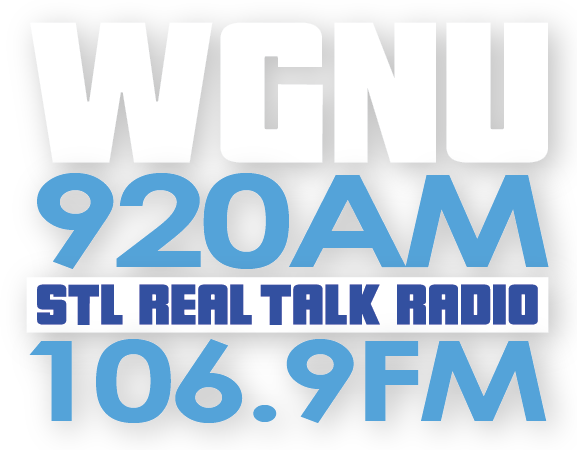
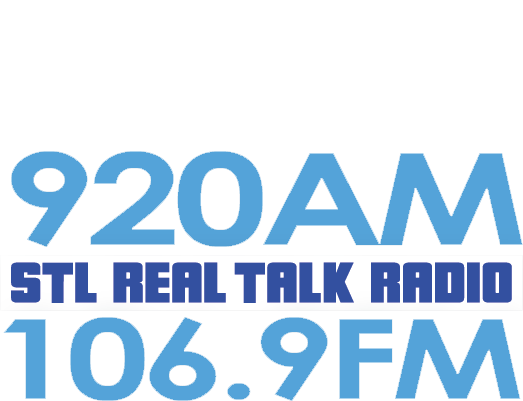
station updates

diff --git a/web/stations/stations-america.js b/web/stations/stations-america.js
@@ -3705,11 +3705,6 @@ var stations = {
             url: "https://stream.revma.ihrhls.com/zc201/hls.m3u8"
         },
         {
-            name: "Radio Disney Country 99.1",
-            logo: "stations/images-america/los_angeles/Radio Disney Country 99.1.png",
-            url: "https://atsradio.herokuapp.com/https://playerservices.streamtheworld.com/api/livestream-redirect/RDCOUNTRYAAC64_SC"
-        },
-        {
             name: "99.5 KKLA",
             logo: "stations/images-america/los_angeles/99.5 KKLA.png",
             url: "https://playerservices.streamtheworld.com/api/livestream-redirect/KKLAFMAAC_SC"
@@ -3720,8 +3715,8 @@ var stations = {
             url: "https://atsradio.herokuapp.com/https://playerservices.streamtheworld.com/api/livestream-redirect/KRTHFMAAC_SC"
         },
         {
-            name: "101.5 KQBH",
-            logo: "stations/images-america/los_angeles/101.5 KQBH.png",
+            name: "KQBH 101.5",
+            logo: "stations/images-america/los_angeles/KQBH 101.5.png",
             url: "http://ednixon.com:8170/stream"
         },
         {
@@ -3813,6 +3808,11 @@ var stations = {
             name: "KNX 1070",
             logo: "stations/images-america/los_angeles/KNX 1070.png",
             url: "https://atsradio.herokuapp.com/https://playerservices.streamtheworld.com/api/livestream-redirect/KNXAMAAC_SC"
+        },
+        {
+            name: "The Patriot 1150",
+            logo: "stations/images-america/los_angeles/The Patriot 1150.png",
+            url: "https://stream.revma.ihrhls.com/zc197/hls.m3u8"
         },
     ],
     "ltahoe": [
@@ -19103,9 +19103,14 @@ var stations_c2c = {
             url: "https://atsradio.herokuapp.com/https://playerservices.streamtheworld.com/api/livestream-redirect/KSHEFMAAC_SC"
         },
         {
-            name: "NOW 96.3",
-            logo: "stations/images-america/c2c/stlouis_mo/NOW 96.3.png",
-            url: "https://atsradio.herokuapp.com/https://playerservices.streamtheworld.com/api/livestream-redirect/KNOUFMAAC_SC"
+            name: "BOOST 95.5",
+            logo: "stations/images-america/c2c/stlouis_mo/BOOST 95.5.png",
+            url: "https://boost1019.streamguys1.com/live-aac-website"
+        },
+        {
+            name: "96.3 The Lou",
+            logo: "stations/images-america/c2c/stlouis_mo/96.3 The Lou.png",
+            url: "https://atsradio.herokuapp.com/https://playerservices.streamtheworld.com/api/livestream-redirect/WFUNFMAAC_SC"
         },
         {
             name: "97.1 Talk",
@@ -19146,11 +19151,6 @@ var stations_c2c = {
             name: "101 ESPN",
             logo: "stations/images-america/c2c/stlouis_mo/101 ESPN.png",
             url: "https://playerservices.streamtheworld.com/api/livestream-redirect/WXOSFMAAC_SC"
-        },
-        {
-            name: "Boost 101.9",
-            logo: "stations/images-america/c2c/stlouis_mo/Boost 101.9.png",
-            url: "https://boost1019.streamguys1.com/live-aac"
         },
         {
             name: "102.5 KEZK",
@@ -19221,11 +19221,6 @@ var stations_c2c = {
             name: "590 The Fan",
             logo: "stations/images-america/c2c/stlouis_mo/590 The Fan.png",
             url: "https://ice8.securenetsystems.net/1108"
-        },
-        {
-            name: "WGNU 920",
-            logo: "stations/images-america/c2c/stlouis_mo/WGNU 920.png",
-            url: "http://173.193.205.96:7248/stream"
         },
         {
             name: "1120 KMOX",
@@ -28886,9 +28881,14 @@ var stations_c2c = {
             url: "https://wvpublic.streamguys1.com/wvpb256k.aac"
         },
         {
-            name: "92.5 WINC FM",
-            logo: "stations/images-america/c2c/winchester_va/92.5 WINC FM.png",
-            url: "https://playerservices.streamtheworld.com/api/livestream-redirect/WINCFM_SC"
+            name: "Air1 92.5",
+            logo: "stations/images-america/0_general_logos/Air1.png",
+            url: "https://maestro.emfcdn.com/stream_for/air1/tunein"
+        },
+        {
+            name: "94.1 QZK",
+            logo: "stations/images-america/c2c/winchester_va/94.1 QZK.png",
+            url: "https://live.wostreaming.net/manifest/wvradio-wqzkfmaac-ibc2"
         },
         {
             name: "WMRA 94.5",
@@ -28929,6 +28929,16 @@ var stations_c2c = {
             name: "102.9 Valley FM",
             logo: "stations/images-america/c2c/winchester_va/102.9 Valley FM.png",
             url: "http://stream.wxva.com:8000/live"
+        },
+        {
+            name: "105 WINC FM",
+            logo: "stations/images-america/c2c/winchester_va/105 WINC FM.png",
+            url: "https://playerservices.streamtheworld.com/api/livestream-redirect/WINCFMAAC_SC"
+        },
+        {
+            name: "WRNR 106.5",
+            logo: "stations/images-america/c2c/winchester_va/WRNR 106.5.png",
+            url: "https://streaming.radio.co/sd2c75a914/listen"
         },
     ],
     "wytheville_va": [
